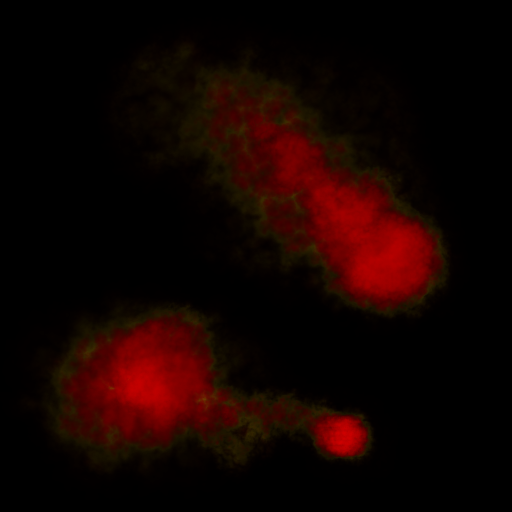
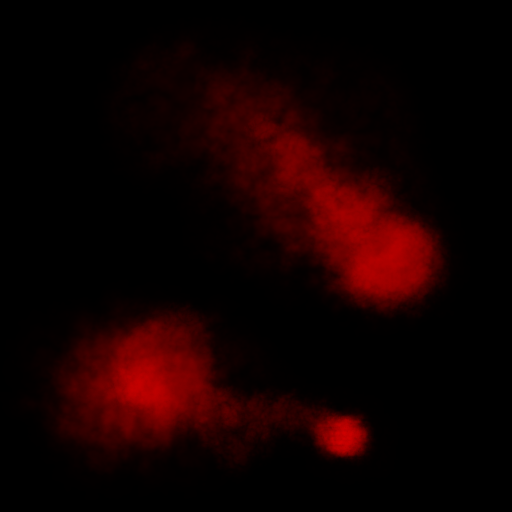
hmm, het bewerkt land wil wel getoont worden maar de schuinsmarcheerder wil dat dan weer niet laten zien...
Ligt het aan texelFetch vs texture? of wat?

diff --git a/demos/marcheerDemo.cpp b/demos/marcheerDemo.cpp
@@ -4,9 +4,10 @@
 int main()
 {
 	weergaveSchermVierkant scherm("Marcheer Demo", 1024, 1024, false);
-	scherm.maakShader("marcheerDemo", 	"shaders/marcheerDemo.vert", 	"shaders/marcheerDemo.frag"	);
+	
 	scherm.maakShader("bewerkHetLand", 	"shaders/bewerkHetLand.vert", 	"shaders/bewerkHetLand.frag");
 	scherm.maakShader("toonHetLand", 	"shaders/toonHetLand.vert", 	"shaders/toonHetLand.frag"	);
+	scherm.maakShader("marcheerDemo", 	"shaders/marcheerDemo.vert", 	"shaders/marcheerDemo.frag"	);
 
 	scherm.laadTextuurUitPng("plaatjes/handLand.png", "handLand", true, true, false);
 	scherm.laadTextuurUitPng("plaatjes/handLand.png", "handLandTwee", true, true, false);
@@ -23,8 +24,8 @@ int main()
 
 	while(!scherm.stopGewenst())
 	{
-		//scherm.bereidWeergevenVoor("toonHetLand"); 
-		scherm.bereidWeergevenVoor("marcheerDemo");
+		scherm.bereidWeergevenVoor("toonHetLand"); 
+		//scherm.bereidWeergevenVoor("marcheerDemo");
 		scherm.bindTextuur("handLandTwee", glGetUniformLocation(scherm.huidigProgramma(), "landRuis"));
 		scherm.geefWeer();
 		scherm.rondWeergevenAf();
